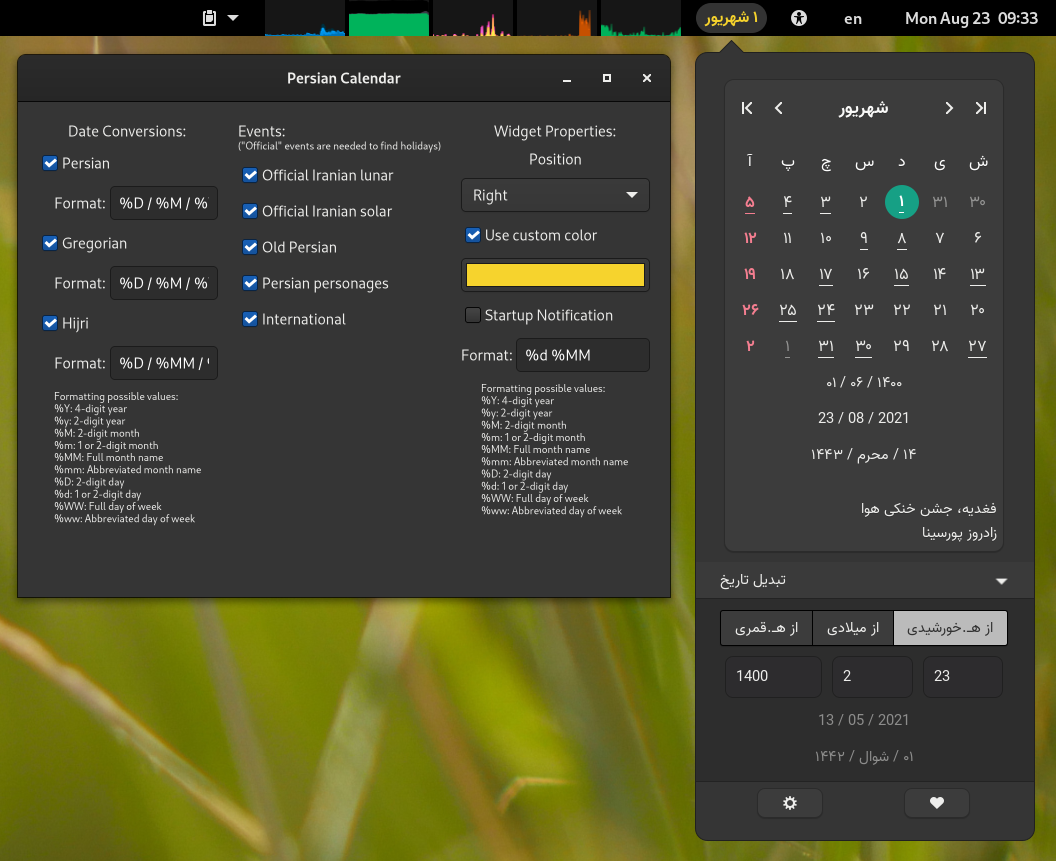
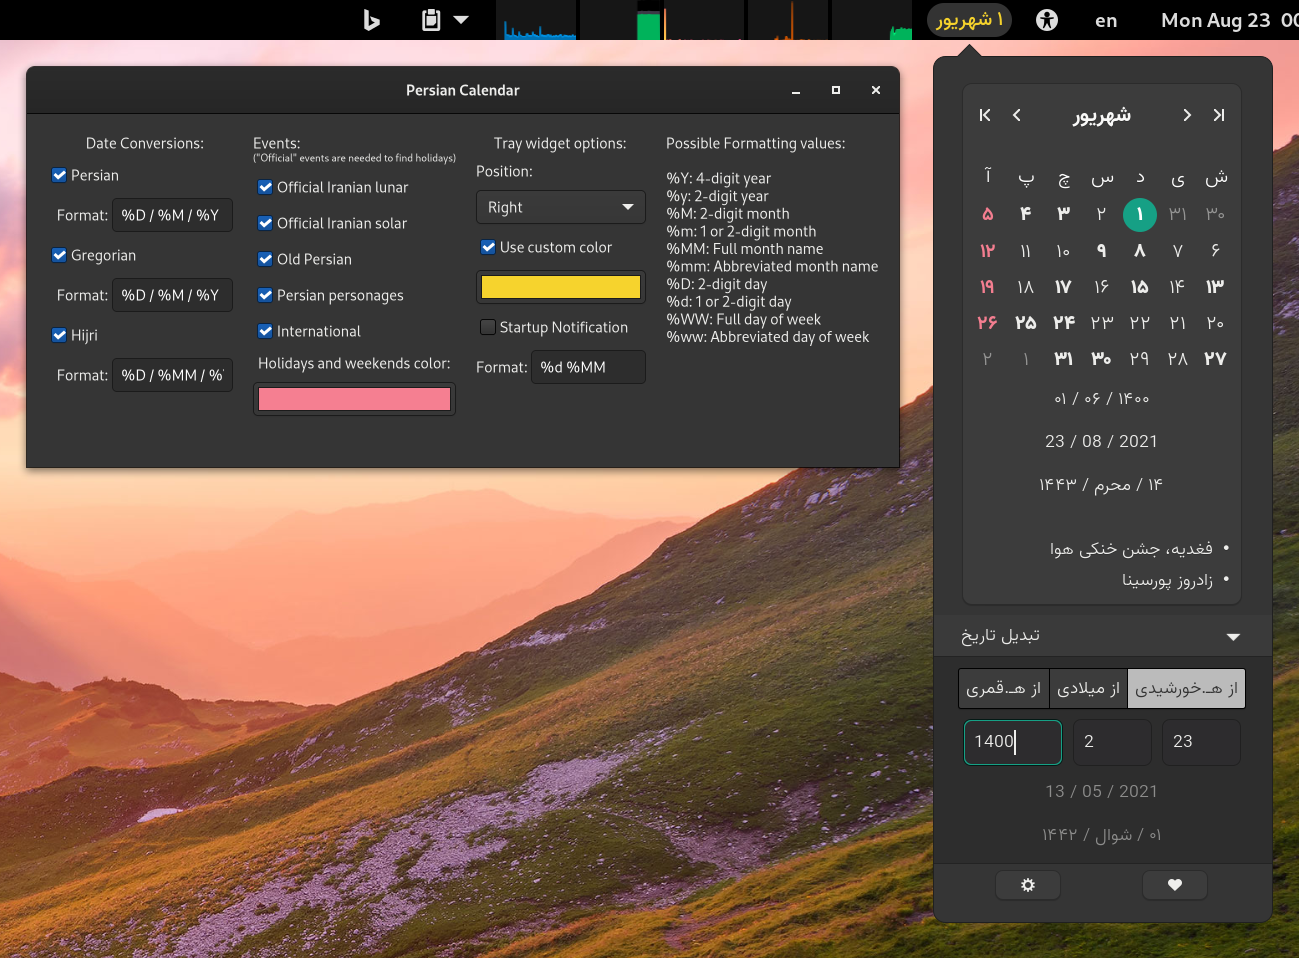
Add weekend & holiday color option to the extension's preferences

diff --git a/PersianCalendar@oxygenws.com/prefs.js b/PersianCalendar@oxygenws.com/prefs.js
@@ -33,6 +33,11 @@ const App = class PersianCalendarApp {
             spacing: 10,
         });
 
+        this.vbox4 = new Gtk.Box({
+            orientation: Gtk.Orientation.VERTICAL,
+            spacing: 10,
+        });
+
         this.main_hbox.set_margin_top(20);
         this.main_hbox.set_margin_bottom(20);
         this.main_hbox.set_margin_start(20);
@@ -41,15 +46,16 @@ const App = class PersianCalendarApp {
         this.main_hbox.append(this.vbox1);
         this.main_hbox.append(this.vbox2);
         this.main_hbox.append(this.vbox3);
+        this.main_hbox.append(this.vbox4);
 
         // DATES FORMAT
-        this.vbox1.append(new Gtk.Label({label: _('Date Conversions:')}));
+        this.vbox1.append(new Gtk.Label({label: _('            Date Conversions:         ')}));
 
         let item = new Gtk.CheckButton({label: _('Persian')});
         this.vbox1.append(item);
         schema.bind('persian-display', item, 'active', Gio.SettingsBindFlags.DEFAULT);
 
-        let label = new Gtk.Label({label: '     Format: '});
+        let label = new Gtk.Label({label: '   Format: '});
         let format = new Gtk.Entry();
         let hbox = new Gtk.Box();
         hbox.append(label);
@@ -62,7 +68,7 @@ const App = class PersianCalendarApp {
         this.vbox1.append(item);
         schema.bind('gregorian-display', item, 'active', Gio.SettingsBindFlags.DEFAULT);
 
-        label = new Gtk.Label({label: '     Format: '});
+        label = new Gtk.Label({label: '   Format: '});
         format = new Gtk.Entry();
         hbox = new Gtk.Box();
         hbox.append(label);
@@ -75,7 +81,7 @@ const App = class PersianCalendarApp {
         this.vbox1.append(item);
         schema.bind('hijri-display', item, 'active', Gio.SettingsBindFlags.DEFAULT);
 
-        label = new Gtk.Label({label: '     Format: '});
+        label = new Gtk.Label({label: '   Format: '});
         format = new Gtk.Entry();
         hbox = new Gtk.Box();
         hbox.append(label);
@@ -83,12 +89,6 @@ const App = class PersianCalendarApp {
         this.vbox1.append(hbox);
         format.set_text(schema.get_string('hijri-display-format'));
         format.connect('changed', innerFormat => schema.set_string('hijri-display-format', innerFormat.text));
-
-        let comment = new Gtk.Label({
-            label: _('<span size="x-small">Formatting possible values:\n%Y: 4-digit year\n%y: 2-digit year\n%M: 2-digit month\n%m: 1 or 2-digit month\n%MM: Full month name\n%mm: Abbreviated month name\n%D: 2-digit day\n%d: 1 or 2-digit day\n%WW: Full day of week\n%ww: Abbreviated day of week</span>'),
-            use_markup: true,
-        });
-        this.vbox1.append(comment);
 
         // EVENTS
         this.vbox2.append(new Gtk.Label({
@@ -116,10 +116,20 @@ const App = class PersianCalendarApp {
         this.vbox2.append(item);
         schema.bind('event-world', item, 'active', Gio.SettingsBindFlags.DEFAULT);
 
-        // COLOR
-        this.vbox3.append(new Gtk.Label({label: _('Widget Properties:')}));
+        this.vbox2.append(new Gtk.Label({label: _('Holidays and weekends color:')}));
 
-        this.vbox3.append(new Gtk.Label({label: _('Position')}));
+        let color = new Gtk.ColorButton();
+        this.vbox2.append(color);
+
+        let colorArray = new Gdk.RGBA();
+        colorArray.parse(schema.get_string('nonwork-color'));
+        color.set_rgba(colorArray);
+        color.connect('color-set', innerColor => schema.set_string('nonwork-color', innerColor.get_rgba().to_string()));
+
+        // TRAY OPTIONS
+        this.vbox3.append(new Gtk.Label({label: _('Tray widget options:')}));
+
+        this.vbox3.append(new Gtk.Label({label: _('Position:                                   ')}));
         item = new Gtk.ComboBoxText();
         item.append('left', 'Left');
         item.append('center', 'Center');
@@ -132,10 +142,10 @@ const App = class PersianCalendarApp {
         this.vbox3.append(item);
         schema.bind('custom-color', item, 'active', Gio.SettingsBindFlags.DEFAULT);
 
-        let color = new Gtk.ColorButton();
+        color = new Gtk.ColorButton();
         this.vbox3.append(color);
 
-        let colorArray = new Gdk.RGBA();
+        colorArray = new Gdk.RGBA();
         colorArray.parse(schema.get_string('color'));
         color.set_rgba(colorArray);
         color.connect('color-set', innerColor => schema.set_string('color', innerColor.get_rgba().to_string()));
@@ -153,11 +163,11 @@ const App = class PersianCalendarApp {
         format.set_text(schema.get_string('widget-format'));
         format.connect('changed', innerFormat => schema.set_string('widget-format', innerFormat.text));
 
-        comment = new Gtk.Label({
-            label: _('<span size="x-small">Formatting possible values:\n%Y: 4-digit year\n%y: 2-digit year\n%M: 2-digit month\n%m: 1 or 2-digit month\n%MM: Full month name\n%mm: Abbreviated month name\n%D: 2-digit day\n%d: 1 or 2-digit day\n%WW: Full day of week\n%ww: Abbreviated day of week</span>'),
+        let comment = new Gtk.Label({
+            label: _('<span>Possible Formatting values:\n\n%Y: 4-digit year\n%y: 2-digit year\n%M: 2-digit month\n%m: 1 or 2-digit month\n%MM: Full month name\n%mm: Abbreviated month name\n%D: 2-digit day\n%d: 1 or 2-digit day\n%WW: Full day of week\n%ww: Abbreviated day of week</span>'),
             use_markup: true,
         });
-        this.vbox3.append(comment);
+        this.vbox4.append(comment);
 
         // FONT
         // item = new Gtk.CheckButton({label: _('Use custom font')})

diff --git a/PersianCalendar@oxygenws.com/calendar.js b/PersianCalendar@oxygenws.com/calendar.js
@@ -282,6 +282,7 @@ var Calendar = class {
 
                 if (events[1]) {
                     styleClass += ' calendar-nonwork-day pcalendar-nonwork-day ';
+                    button.set_style(`color:${this.schema.get_string('nonwork-color')}`);
                 } else {
                     styleClass += ' calendar-work-day pcalendar-work-day ';
                 }

diff --git a/PersianCalendar@oxygenws.com/stylesheet.css b/PersianCalendar@oxygenws.com/stylesheet.css
@@ -20,7 +20,6 @@
 
 .pcalendar-nonwork-day {
     font-weight: bold;
-    color: #f57f91;
 }
 
 .pcalendar-month-label {
